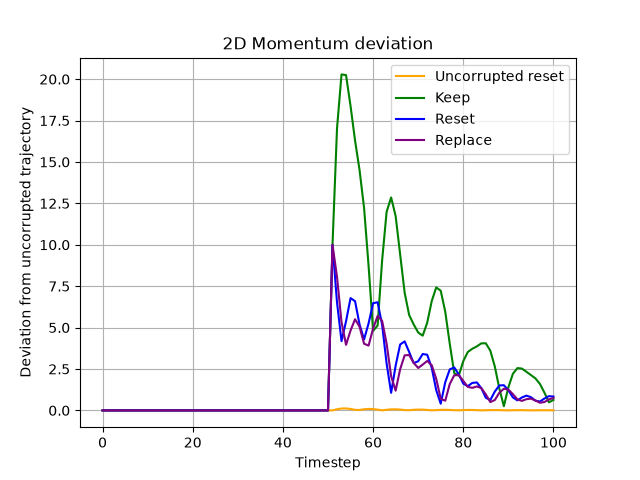
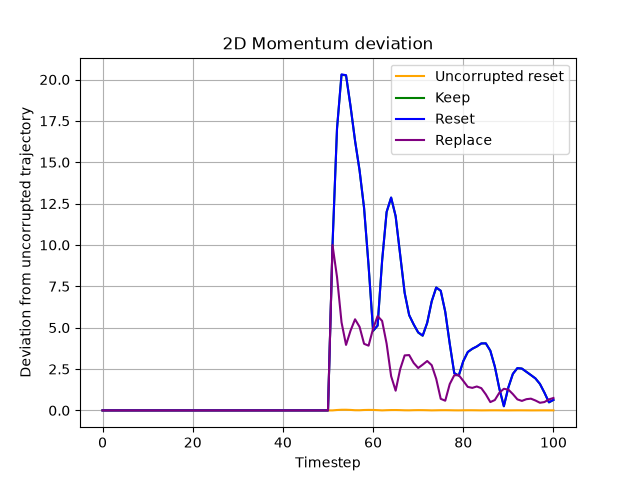
Correct the velocity calculation
The previous calculation used the current gradient instead of the past one.

Changed region(s): [[0.0625, 0.1562, 0.9062, 0.875], [0.0625, 0.5, 0.0938, 0.5312]]

diff --git a/deliverable1/deliverable1.py b/deliverable1/deliverable1.py
@@ -31,7 +31,7 @@ def momentum_1d(x_0, alpha, gamma, t_corrupt, delta, strategy, ref_velocities):
         prev_velocity = velocities[-1]
         if t == t_corrupt + 1:
             if strategy == "reset" or strategy == "clean_reset":
-                prev_velocity = gamma * 0 + alpha * gradient
+                prev_velocity = gamma * 0 + alpha * gradients[-1]
             elif strategy == "replace":
                 prev_velocity = ref_velocities[t]
         velocity = gamma * prev_velocity + alpha * gradient
@@ -51,7 +51,7 @@ def momentum_2d(x_0, y_0, alpha, gamma, t_corrupt, delta, strategy, ref_velociti
         prev_velocity = velocities[-1]
         if t == t_corrupt + 1:
             if strategy == "reset" or strategy == "clean_reset":
-                prev_velocity = gamma * 0 + alpha * gradient
+                prev_velocity = gamma * 0 + alpha * gradients[-1]
             elif strategy == "replace":
                 prev_velocity = ref_velocities[t]
         velocity = gamma * prev_velocity + alpha * gradient
